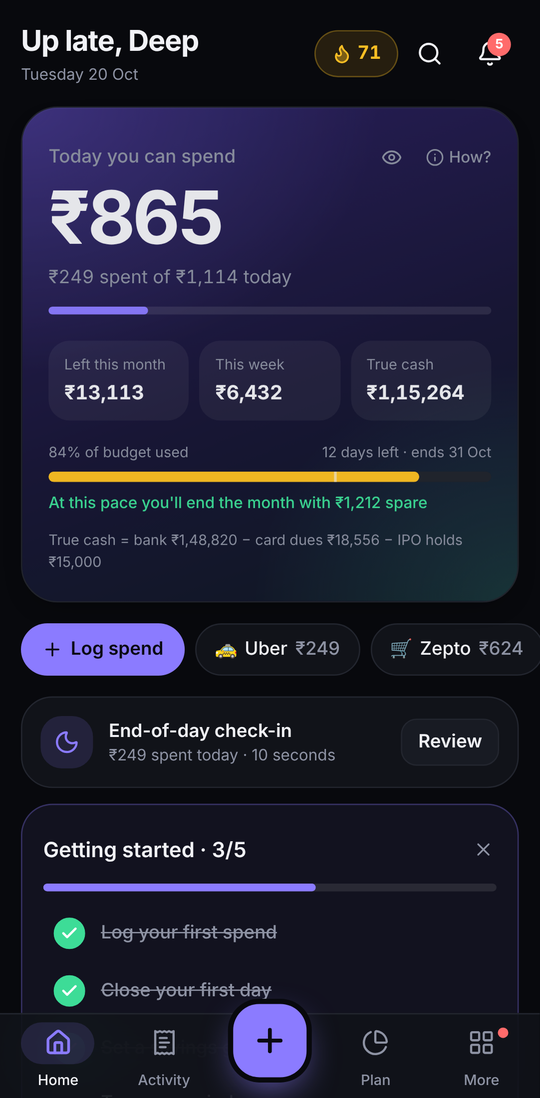
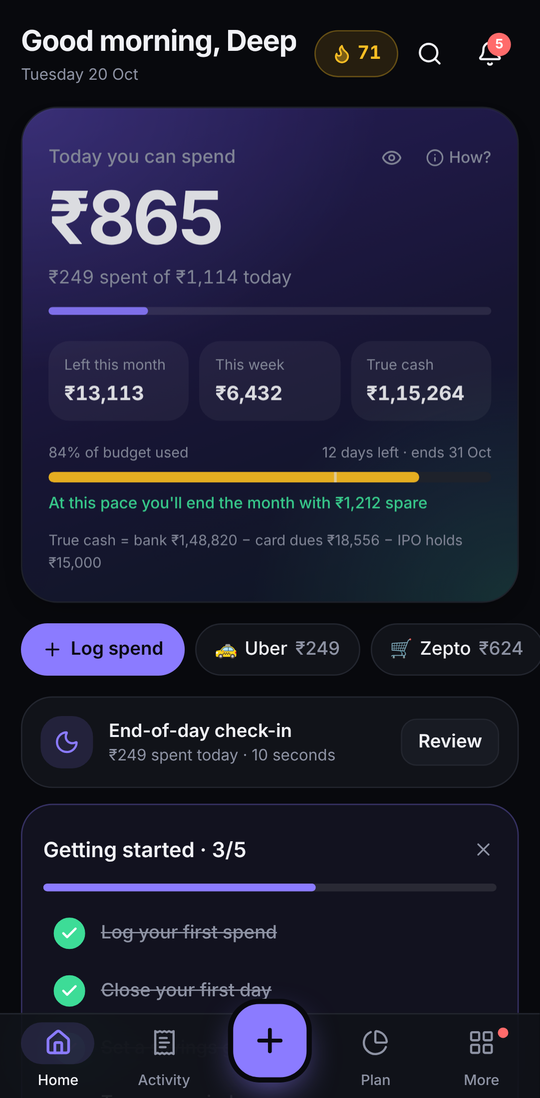
README: cash flow, money health, trips, SMS catch-up, voice; screenshots
Also: the Supabase setup step now says to apply every migration (oldest
first) instead of 'both files'.

diff --git a/README.md b/README.md
@@ -10,6 +10,12 @@ Built from the product spec in [`docs/PRD.md`](docs/PRD.md).
   <img src="docs/screenshots/progress.png" width="200" alt="Progress: streak, habit calendar, weekly review and badges" />
   <img src="docs/screenshots/ask.png" width="200" alt="Ask Paisa: on-device answers to money questions" />
 </p>
+<p>
+  <img src="docs/screenshots/cashflow.png" width="200" alt="Cash flow: projected bank balance and its low point" />
+  <img src="docs/screenshots/health.png" width="200" alt="Money health score with factor breakdown" />
+  <img src="docs/screenshots/plan.png" width="200" alt="Budgets with pace" />
+  <img src="docs/screenshots/cards.png" width="200" alt="Credit cards" />
+</p>
 
 ## The daily loop
 
@@ -50,13 +56,17 @@ Every rule in PRD section 9 lives in [`src/lib/domain`](src/lib/domain) as pure 
 
 | Module | What's there |
 | --- | --- |
-| **Ask Paisa** | Plain-English questions answered on the device, no network: `food last month`, `swiggy this week`, `biggest spend in sep`, `where did my money go`, `can I afford 4000`, `who owes me`, `card bill`, `average per day`. Doubles as a jump-to-page palette (⌘K / Ctrl+K, or the search icon on Home). |
+| **Ask Paisa** | Plain-English questions answered on the device, no network: `food last month`, `swiggy this week`, `biggest spend in sep`, `where did my money go`, `can I afford 4000`, `who owes me`, `card bill`, `average per day`, `will I run short?`, `how healthy are my finances?`, `goa trip`. Doubles as a jump-to-page palette (⌘K / Ctrl+K, or the search icon on Home). |
 | **Daily habit** | Close-the-day check-in with mood and note, streaks (a day counts when closed or when you logged something by hand), no-spend days, week strip on Home, weekly review, habit calendar, badges, morning brief and streak-aware evening nudge. Stored in `day_logs`. |
-| **Quick-add** | Large amount field, a category grid ordered by what you use most, method chips, and account chips filtered by method (UPI offers the bank and RuPay cards and remembers the choice per merchant). "Log again" chips on Home and in every transaction's detail. Undo after every save. Natural language (`450 swiggy card`, `1200 dinner upi split rahul amit`, `3600 dinner paid by rahul split amit`, `yesterday 80 auto cash #office`). Paste a bank SMS and it gets parsed. Merchant memory, templates, duplicate warning, and "Bank or RuPay?" asked once per merchant and then remembered. |
+| **Cash flow** | Where your bank balance is heading over the next five weeks: scheduled income, bills and SIPs, card bills on their due dates (billed now and the current cycle later), and everyday spending from the bank at your routine run-rate. Shows the low point and any shortfall, with a warning notification a week ahead (Plan › Cash flow, and a card on Home). |
+| **Money health** | A 0–100 score from savings rate, emergency cushion, card utilisation, budgets kept, bills on time and the tracking habit. Each factor shows its points and a tip; factors without data are left out. |
+| **Trips** | A budget, dates and a tag per trip. While a trip is on, quick-add tags spends, can keep them out of the monthly budget (paid from savings), and abroad takes amounts in the trip currency at your rate. Live pace on Home; breakdown per trip. |
+| **Catch up from SMS** | Paste a batch of bank messages after a few missed days: each is parsed (card by last 4 digits, category from your history), OTPs and balance alerts are skipped, likely duplicates start unticked, and you import them in one tap. |
+| **Quick-add** | Voice input (mic in the quick-add field: "2 thousand rupees Myntra on card"). Sums like `120+80`, digit grouping as you type, and "Food: after this, ₹2,318 left" while you log. Large amount field, a category grid ordered by what you use most, method chips, and account chips filtered by method (UPI offers the bank and RuPay cards and remembers the choice per merchant). "Log again" chips on Home and in every transaction's detail. Undo after every save. Natural language (`450 swiggy card`, `1200 dinner upi split rahul amit`, `3600 dinner paid by rahul split amit`, `yesterday 80 auto cash #office`). Paste a bank SMS and it gets parsed. Merchant memory, templates, duplicate warning, and "Bank or RuPay?" asked once per merchant and then remembered. |
 | **Transactions** | Expense, income, transfer, refund (partial too), card payment and adjustment. Splits, receipts, location and tags. Search, filters, calendar view, bulk edit, 10-second undo, 30-day trash and edit history. |
 | **Credit cards** | Cycles computed from the statement day (clamped to month end), statements with min due (max of 5% or ₹200, plus EMIs), payments applied to the oldest statement first, utilisation alert above 30%, EMI conversion with interest + GST schedule, reward rules and points expiry, annual-fee waiver progress, and statement reconciliation from pasted lines. |
 | **Budgets** | Calendar month, custom start day (1–31), or "from the day salary lands". Changing the setting never rewrites past cycles. Envelopes that cover UPI, card and cash together, rollover, pace indicator, card cap, method split, and a zero-based view. |
-| **Recurring & rent** | Spots untracked subscriptions and bills (three or more evenly spaced, similar payments to one merchant) and offers to track them. Fixed or variable amounts (variable uses a 3-month average). Monthly, quarterly, yearly, weekly or every N days. Auto-post or confirm-drafts, rent escalation and deposit, subscription audit, and printable rent receipts for HRA. |
+| **Recurring & rent** | Spots untracked subscriptions and bills (three or more evenly spaced, similar payments to one merchant) and offers to track them. Alerts when a subscription or fixed bill changes price ("Netflix went up: ₹499 → ₹649"). Fixed or variable amounts (variable uses a 3-month average). Monthly, quarterly, yearly, weekly or every N days. Auto-post or confirm-drafts, rent escalation and deposit, subscription audit, and printable rent receipts for HRA. |
 | **IPO** | Applied → blocked → allotted / partial / not allotted → listed → sold. The hold reduces Safe-to-Spend and is released when you mark the allotment. Listing gain, P&L, STCG/LTCG estimate (rates are editable), hit-rate, best/worst IPO, and family PANs. |
 | **Friends** | Split equally, by exact amounts, percentages, shares or per item. Several people can pay one bill. Per-friend and group balances, simplify debts (greedy), settle up through a `upi://pay` deep link or a WhatsApp request, outing mode, and stats. |
 | **Goals** | Monthly contribution reserved from Safe-to-Spend, emergency fund (6 × average monthly spend), sinking funds, round-ups, and moving leftover money to a goal at month end. |
@@ -77,7 +87,7 @@ Next.js 15 (App Router) PWA ──► Zustand store ──► IndexedDB (Dexie):
 ```
 
 - **Local-first.** Every write is applied optimistically, persisted to IndexedDB right away, and queued in an outbox. With Supabase configured, the outbox flushes to Postgres when you're online, a full pull runs on sign-in, and Realtime keeps phone and desktop in sync. Column names in [`src/lib/types.ts`](src/lib/types.ts) match the tables one-to-one.
-- **Database.** [`supabase/migrations`](supabase/migrations) contains 29 tables, all with the same `user_id = auth.uid()` RLS policy, money stored as `numeric(14,2)`, a private receipts bucket, and these functions: `assign_card_cycle()` trigger, `close_card_cycle()`, `allocate_card_payments()`, `release_ipo_hold()`, `safe_to_spend()` RPC, the `friend_balances` view, plus pg_cron jobs (`post_recurring`, `close_card_cycles`, `reminders`, `budget_pace`, `snapshot_net_worth`) that log to `job_runs`.
+- **Database.** [`supabase/migrations`](supabase/migrations) contains 30 tables, all with the same `user_id = auth.uid()` RLS policy, money stored as `numeric(14,2)`, a private receipts bucket, and these functions: `assign_card_cycle()` trigger, `close_card_cycle()`, `allocate_card_payments()`, `release_ipo_hold()`, `safe_to_spend()` RPC, the `friend_balances` view, plus pg_cron jobs (`post_recurring`, `close_card_cycles`, `reminders`, `budget_pace`, `snapshot_net_worth`) that log to `job_runs`.
 - **Jobs on the client too.** The same jobs run in the browser when the app opens and every 5 minutes (they're idempotent), so local-only mode still gets reminders and statements.
 - **Server routes.** `/api/push/subscribe` stores Web Push subscriptions. `/api/cron/push` and `/api/cron/digest` are Vercel Cron routes that deliver pending notifications and the weekly Resend email.
 - **Security.** CSP and HSTS headers, the service-role key used only in server code, receipts behind 60-second signed URLs, and only the last 4 digits of a card stored.
@@ -92,7 +102,7 @@ Next.js 15 (App Router) PWA ──► Zustand store ──► IndexedDB (Dexie):
 
 ## Supabase setup (optional)
 
-1. Create a project and run the migrations with `supabase db push`, or paste both files from `supabase/migrations` into the SQL editor. Enable `pg_cron` first if you want the server-side jobs.
+1. Create a project and run the migrations with `supabase db push`, or paste every file from `supabase/migrations` into the SQL editor, oldest first. Enable `pg_cron` first if you want the server-side jobs.
 2. Turn on the Email (magic link) and Google auth providers. Add your site URL to the redirect URLs.
 3. Copy `.env.example` to `.env.local` and fill in `NEXT_PUBLIC_SUPABASE_URL` and `NEXT_PUBLIC_SUPABASE_ANON_KEY`. For push and cron, also set `SUPABASE_SERVICE_ROLE_KEY`, the VAPID keys (`npx web-push generate-vapid-keys`) and `CRON_SECRET`.
 4. Deploy to Vercel. `vercel.json` schedules the push delivery job (09:00 IST) and the weekly digest (Sunday 10:00 IST).
@@ -103,7 +113,7 @@ The first time you sign in on a device that already has local data, that data is
 
 ```bash
 npm test          # Vitest: unit tests for the section 9 rules, habits, Ask Paisa and recurring detection
-npm run e2e       # Playwright: flows F1–F7 plus the close-the-day habit flow on a Pixel 7 viewport (run `npm run build` first)
+npm run e2e       # Playwright: flows F1–F7 plus habit, salary, voice, SMS catch-up and trip flows on a Pixel 7 viewport (run `npm run build` first)
 npm run typecheck
 npm run lint
 ```
@@ -118,7 +128,7 @@ src/
   components/          TxnForm (quick-add + editor), QuickAdd, TxnDetail, Habit (streak, week strip,
                        close-the-day), AskSheet, GettingStarted, Spotted, CardForm, IpoForm, ui primitives
   lib/domain/          pure rules: cycle, ledger, cards, safeToSpend, friends, ipo, recurring, budgets,
-                       goals, insights, habits, ask, parser, sms, tax (+ __tests__)
+                       goals, insights, habits, ask, cashflow, health, trips, parser, sms, tax (+ __tests__)
   lib/store/           Zustand store, IndexedDB, actions, selectors, jobs, Supabase sync, demo/onboarding
 supabase/migrations/   schema, RLS, functions, pg_cron
 e2e/                   Playwright flows
